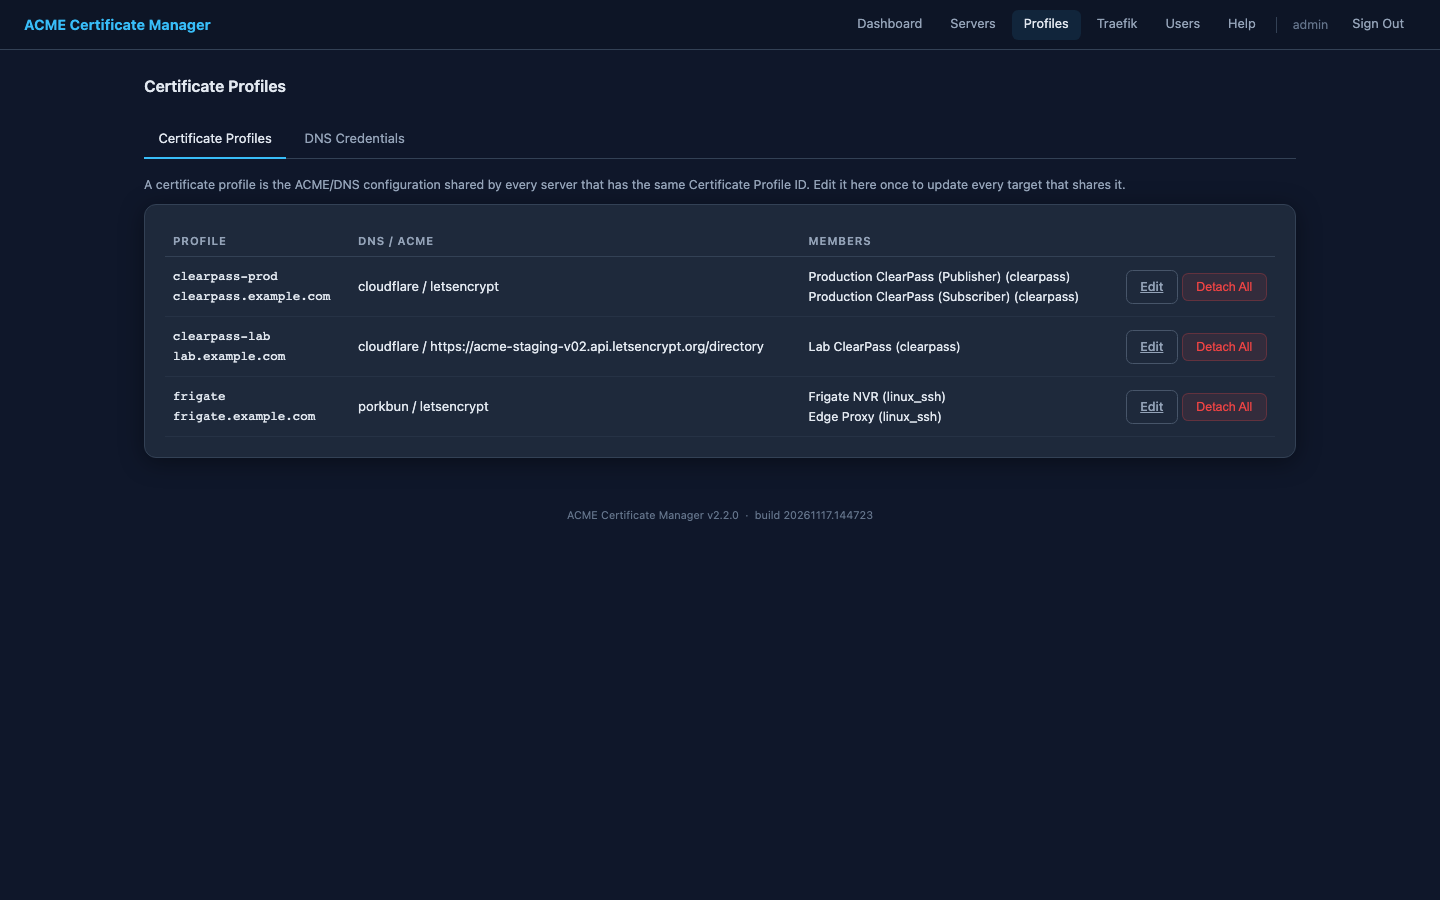
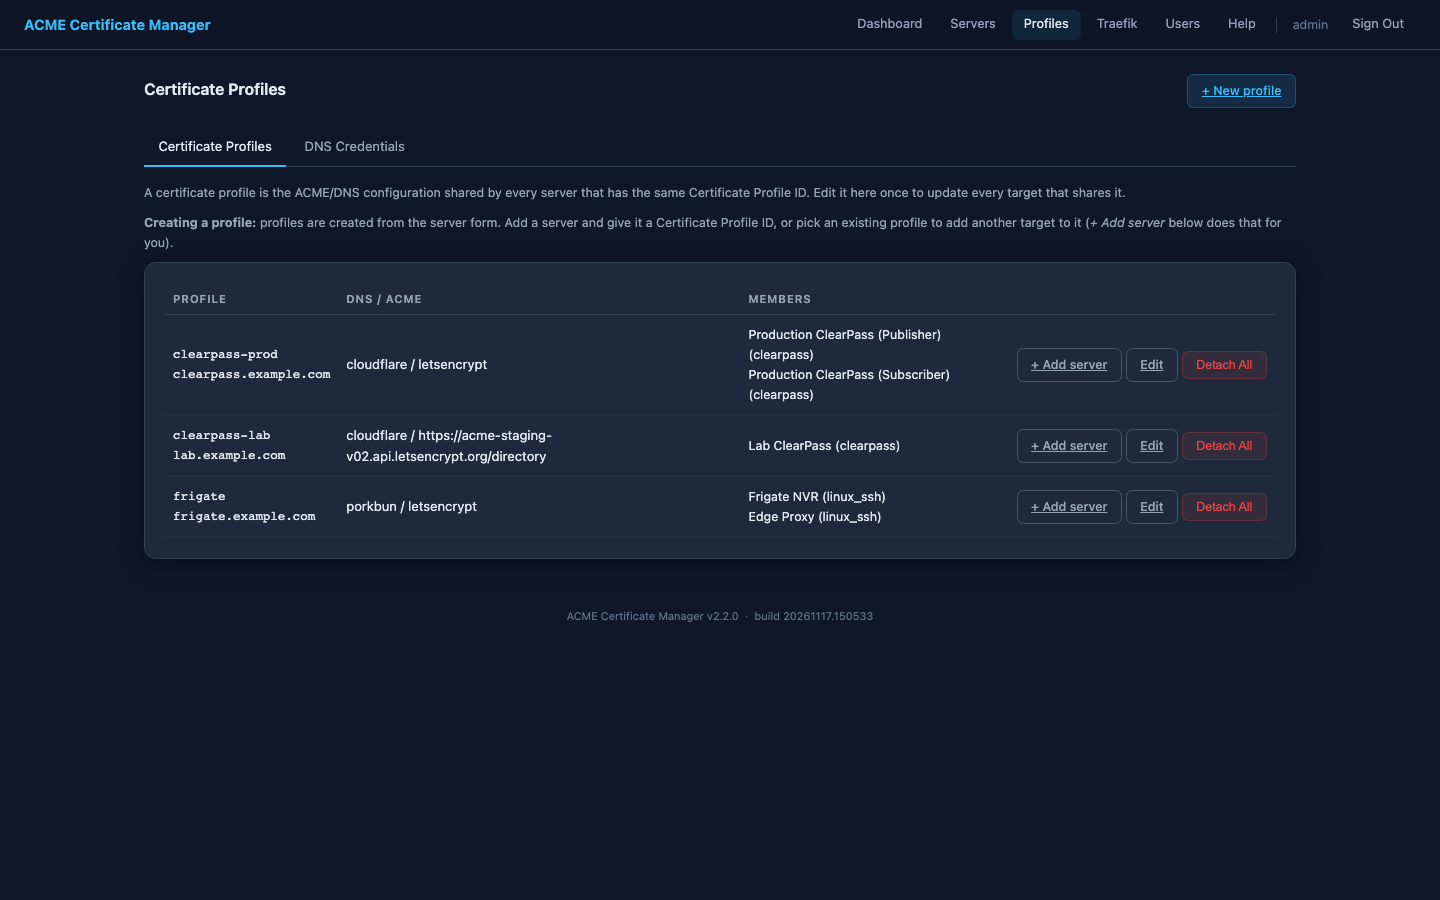
Updated screenshots and clarified the Certificate Profile tab on where profiles are created.

diff --git a/tools/screenshot_docs.py b/tools/screenshot_docs.py
@@ -4,7 +4,8 @@ screenshot_docs.py - Regenerate docs/ui-*.png screenshots from sample data.
 
 Spins up a throwaway container from the project's own Docker image, seeds it
 with placeholder servers and an admin user (never real customer/lab data),
-drives a headless browser through each documented page (empty-state checklist,
+drives a headless browser through each documented page (setup, login, dashboard,
+server detail and log tabs, users, empty-state checklist,
 ClearPass and Linux SSH servers, Certificate Profiles, DNS Credentials), and
 saves the resulting PNGs into docs/.
 
@@ -119,6 +120,18 @@ SAMPLE_SERVERS = [
     }),
 ]
 
+# Captured before the first admin exists / without a session.
+# (output filename, path)
+PRE_AUTH_PAGES = [
+    ("ui-setup.png", "/setup?step=admin"),
+]
+
+# Captured in a fresh, signed-out browser context after seeding.
+SIGNED_OUT_PAGES = [
+    ("ui-login.png", "/login"),
+    ("ui-server-detail-noauth.png", "/server/{prod}"),
+]
+
 # Pages captured while the app has NO servers and NO DNS credentials, so the
 # empty-state "Get started" checklist shows. (output filename, path)
 EMPTY_PAGES = [
@@ -129,7 +142,11 @@ EMPTY_PAGES = [
 # template is replaced by the server ID of the SAMPLE_SERVERS entry with that
 # key, e.g. "/settings/edit/{prod}".
 PAGES = [
+    ("ui-dashboard.png", "/"),
+    ("ui-server-detail.png", "/server/{prod}"),
     ("ui-servers-list.png", "/settings"),
+    ("ui-server-form.png", "/settings/add"),
+    ("ui-users.png", "/admin/users"),
     ("ui-server-edit.png", "/settings/edit/{prod}"),
     ("ui-server-form-linux.png", "/settings/add?target_type=linux_ssh"),
     ("ui-server-edit-linux.png", "/settings/edit/{frigate}"),
@@ -137,6 +154,62 @@ PAGES = [
     ("ui-profile-edit.png", "/settings/profiles/edit/clearpass-prod"),
     ("ui-dns-credentials.png", "/settings/dns-credentials"),
 ]
+
+
+# Runs inside the container: writes self-signed placeholder certs and sample
+# logs into the cert dir of the server whose id is argv[1], so the dashboard,
+# detail view and log tabs have something to show. Placeholder data only.
+SEED_ACTIVITY_PY = r'''
+import sys, datetime
+sys.path.insert(0, "/opt/cppm")
+from config_utils import get_server, server_cert_dir
+from acme_provider import cert_file_stem
+from cryptography import x509
+from cryptography.x509.oid import NameOID
+from cryptography.hazmat.primitives import hashes, serialization
+from cryptography.hazmat.primitives.asymmetric import ec, rsa
+
+sid, days_left = sys.argv[1], int(sys.argv[2])
+srv = get_server(sid)
+d = server_cert_dir(srv); (d / "logs").mkdir(parents=True, exist_ok=True)
+domain = srv["domain"]; stem = cert_file_stem(domain)
+now = datetime.datetime.now(datetime.timezone.utc)
+issued = now - datetime.timedelta(days=90 - days_left)
+
+def make(key, name):
+    subj = x509.Name([x509.NameAttribute(NameOID.COMMON_NAME, domain)])
+    iss = x509.Name([x509.NameAttribute(NameOID.COMMON_NAME, "Example Staging Intermediate E1")])
+    c = (x509.CertificateBuilder().subject_name(subj).issuer_name(iss)
+         .public_key(key.public_key()).serial_number(x509.random_serial_number())
+         .not_valid_before(issued).not_valid_after(issued + datetime.timedelta(days=90))
+         .add_extension(x509.SubjectAlternativeName([x509.DNSName(domain)]), False)
+         .sign(key, hashes.SHA256()))
+    (d / name).write_bytes(c.public_bytes(serialization.Encoding.PEM))
+
+make(ec.generate_private_key(ec.SECP256R1()), stem + ".ecc.cer")
+if srv.get("target_type", "clearpass") == "clearpass":
+    make(rsa.generate_private_key(65537, 2048), stem + ".rsa.cer")
+
+ts = lambda m: (now - datetime.timedelta(minutes=m)).strftime("%Y-%m-%d %H:%M:%S")
+rows = [(300, "INFO", "RENEW", "Scheduled renewal check started"),
+        (299, "INFO", "RENEW", "Certificate valid for %d days - no renewal needed" % days_left),
+        (298, "INFO", "DEPLOY", "Deployed certificate to %s" % (srv.get("cppm_host") or srv.get("ssh_host") or domain)),
+        (297, "INFO", "TRUST", "Trust list check complete")]
+(d / "status.log").write_text("".join(
+    "%s | %s | %s | %s\n" % (ts(m), l, c, msg) for m, l, c, msg in rows))
+(d / "logs" / "acme_renewal.log").write_text("".join(
+    "%s lego: %s\n" % (ts(m), t) for m, t in [
+     (300, "[INFO] [%s] acme: Obtaining bundled SAN certificate" % domain),
+     (300, "[INFO] [%s] acme: Trying DNS-01 challenge" % domain),
+     (299, "[INFO] [%s] dns: Waiting for DNS propagation" % domain),
+     (299, "[INFO] [%s] The server validated our request" % domain),
+     (299, "[INFO] [%s] Server responded with a certificate." % domain)]))
+(d / "logs" / "cppm_upload.log").write_text("".join(
+    "%s upload: %s\n" % (ts(m), t) for m, t in [
+     (298, "Authenticating with API client"),
+     (298, "Uploading HTTPS(ECC) certificate"),
+     (298, "Upload complete: HTTPS(ECC)")]))
+'''
 
 
 def run(cmd, **kw):
@@ -199,15 +272,25 @@ def main() -> int:
 
         wait_for_http(f"http://localhost:{HOST_PORT}/", timeout=30)
 
-        run(seed_py(
-            f"from auth_utils import save_user; "
-            f"save_user({ADMIN_USER!r}, {ADMIN_PASS!r})"
-        ))
-
         from playwright.sync_api import sync_playwright
 
         with sync_playwright() as pw:
             browser = pw.chromium.launch()
+
+            # 0) First-run setup page, before any admin exists.
+            setup_page = browser.new_page(viewport=VIEWPORT)
+            for filename, path in PRE_AUTH_PAGES:
+                setup_page.goto(f"http://localhost:{HOST_PORT}{path}")
+                setup_page.wait_for_load_state("networkidle")
+                out = DOCS_DIR / filename
+                setup_page.screenshot(path=str(out), full_page=True)
+                print(f"saved {out}")
+            setup_page.close()
+
+            run(seed_py(
+                f"from auth_utils import save_user; "
+                f"save_user({ADMIN_USER!r}, {ADMIN_PASS!r})"
+            ))
             page = browser.new_page(viewport=VIEWPORT)
             page.goto(f"http://localhost:{HOST_PORT}/login")
             page.fill('input[name="username"]', ADMIN_USER)
@@ -240,9 +323,43 @@ def main() -> int:
                 ), capture_output=True, text=True)
                 server_ids[key] = result.stdout.strip().splitlines()[-1]
 
+            # Trigger the first health check now: the sandbox can't reach the
+            # sample hosts, and the resulting "cannot resolve" events get logged
+            # to status.log. The seed below overwrites that log, so the Activity
+            # Log shows only the sample events. (State changes are logged once,
+            # so they don't reappear.)
+            page.goto(f"http://localhost:{HOST_PORT}/api/health")
+            page.wait_for_timeout(2000)
+
+            # Placeholder certs/logs for the monitored entries. prod_sub shares
+            # prod's certificate directory, so it is seeded once via prod.
+            for key, days in (("prod", 62), ("lab", 21), ("frigate", 45)):
+                run(["docker", "exec", CONTAINER, "python3", "-c", SEED_ACTIVITY_PY,
+                     server_ids[key], str(days)])
+
             # 3) Populated pages.
             for filename, path_tpl in PAGES:
                 shoot(filename, path_tpl.format(**server_ids))
+
+            # 4) Log tabs on the server detail page.
+            for filename, tab_text in (("ui-server-logs-renewal.png", "ACME Renewal"),
+                                       ("ui-server-logs-upload.png", "ClearPass Upload")):
+                page.goto(f"http://localhost:{HOST_PORT}/server/{server_ids['prod']}")
+                page.wait_for_load_state("networkidle")
+                page.get_by_text(tab_text, exact=False).first.click()
+                page.wait_for_timeout(1000)
+                out = DOCS_DIR / filename
+                page.screenshot(path=str(out), full_page=True)
+                print(f"saved {out}")
+
+            # 5) Signed-out pages (fresh context, no session cookie).
+            anon = browser.new_page(viewport=VIEWPORT)
+            for filename, path_tpl in SIGNED_OUT_PAGES:
+                anon.goto(f"http://localhost:{HOST_PORT}{path_tpl.format(**server_ids)}")
+                anon.wait_for_load_state("networkidle")
+                out = DOCS_DIR / filename
+                anon.screenshot(path=str(out), full_page=True)
+                print(f"saved {out}")
 
             browser.close()
 

diff --git a/scripts/status_server.py b/scripts/status_server.py
@@ -30,7 +30,7 @@ import traceback
 import zoneinfo
 from http.server import BaseHTTPRequestHandler, ThreadingHTTPServer
 from pathlib import Path
-from urllib.parse import parse_qs, urlparse
+from urllib.parse import parse_qs, urlparse, quote as _url_quote
 
 try:
     from cryptography import x509
@@ -3645,9 +3645,9 @@ def _profile_list_page(username: str, flash_type: str = "", flash_msg: str = "")
     profiles = list_certificate_profiles()
     if not profiles:
         rows = ('<tr><td colspan="4"><div class="empty">'
-                'No certificate profiles yet.&nbsp; Set a Certificate Profile ID on two or '
-                'more servers in <a href="/settings" style="color:var(--accent)">Servers</a> '
-                'to share one ACME/DNS config between them.'
+                'No certificate profiles yet.&nbsp; '
+                '<a href="/settings/add?new_profile=1" style="color:var(--accent)">Add a server</a> '
+                'and give it a Certificate Profile ID to create one.'
                 '</div></td></tr>')
     else:
         rows = ""
@@ -3659,17 +3659,19 @@ def _profile_list_page(username: str, flash_type: str = "", flash_msg: str = "")
             prov    = _esc((get_dns_credential(cred_id) or {}).get("dns_provider", "") or cred_id)
             acme    = _esc(p.get("acme_server", "letsencrypt"))
             members = list_profile_members(pid)
+            domain_html = (f'<br><span class="hint">{domain}</span>'
+                           if domain and domain != pid_esc else "")
             members_html = "<br>".join(
                 f'{_esc(m.get("label", ""))} <span class="hint">({_esc(m.get("target_type", "clearpass"))})</span>'
                 for m in members
             )
             rows += (
                 f'<tr>'
-                f'<td style="font-family:monospace;font-size:0.78rem">{pid_esc}<br>'
-                f'<span class="hint">{domain}</span></td>'
+                f'<td style="font-family:monospace;font-size:0.78rem">{pid_esc}{domain_html}</td>'
                 f'<td>{prov} <span class="hint">/ {acme}</span></td>'
                 f'<td style="font-size:0.78rem">{members_html}</td>'
                 f'<td style="text-align:right;white-space:nowrap">'
+                f'<a href="/settings/add?profile={_url_quote(pid)}" class="btn btn-ghost">+ Add server</a> '
                 f'<a href="/settings/profiles/edit/{pid_esc}" class="btn btn-ghost">Edit</a> '
                 f'<form method="POST" action="/settings/profiles/{pid_esc}/detach" style="display:inline"'
                 f' onsubmit="return confirm(\'Detach all {len(members)} target(s) from this profile? '
@@ -3684,12 +3686,18 @@ def _profile_list_page(username: str, flash_type: str = "", flash_msg: str = "")
 <div class="app">
   <div class="page-hdr">
     <span class="page-title">Certificate Profiles</span>
+    <a href="/settings/add?new_profile=1" class="btn btn-primary">&#43; New profile</a>
   </div>
   {_profile_tabs_html("cert-profiles")}
   {flash_html}
   <p style="font-size:0.78rem;color:var(--muted);margin-bottom:0.6rem">
     A certificate profile is the ACME/DNS configuration shared by every server that has the
     same Certificate Profile ID. Edit it here once to update every target that shares it.
+  </p>
+  <p style="font-size:0.78rem;color:var(--muted);margin-bottom:0.6rem">
+    <strong>Creating a profile:</strong> profiles are created from the server form. Add a server
+    and give it a Certificate Profile ID, or pick an existing profile to add another target to it
+    (<em>+ Add server</em> below does that for you).
   </p>
   <div class="card" style="overflow-x:auto">
     <table class="settings-table" style="min-width:48rem">
@@ -3997,6 +4005,21 @@ def _settings_form_page(server: dict = None, error: str = "",
         f'<script>window.CERT_PROFILES = {profiles_json};'
         f'window.CERT_ID_AUTOSUGGEST = {"false" if is_edit else "true"};</script>'
     )
+    if not is_edit:
+        # ?profile=<id> preselects an existing profile; ?new_profile=1 focuses the ID field.
+        cert_profiles_script += '''<script>
+window.addEventListener('DOMContentLoaded', function() {
+  var q = new URLSearchParams(location.search);
+  var sel = document.getElementById('cert_profile_select');
+  var want = q.get('profile');
+  if (want && sel && (window.CERT_PROFILES || {})[want]) {
+    sel.value = want; applyCertProfile(want);
+  } else if (q.get('new_profile')) {
+    var i = document.getElementById('certificate_id_input');
+    if (i) { i.focus(); }
+  }
+});
+</script>'''
 
     if is_edit:
         cert_profile_field_html = f'''

diff --git a/docs/11-certificate-profiles.md b/docs/11-certificate-profiles.md
@@ -38,8 +38,16 @@ reload command, service labels — stays on each server entry.
 
 ### Creating a profile
 
-There is no separate "new profile" button. A profile exists as soon as a server
-has a **Certificate Profile ID**:
+Profiles are created from the server form: a profile exists as soon as a
+server has a **Certificate Profile ID**. The Profiles page has shortcuts into
+that form:
+
+- **+ New profile** (top right) opens **Add Server** with the Certificate
+  Profile ID field focused.
+- **+ Add server** on a profile row opens **Add Server** with that profile
+  already selected and its shared ACME/DNS fields filled in.
+
+Or do it by hand:
 
 1. **Servers → + Add Server**.
 2. In **Certificate Profile**, either keep **+ Create new certificate profile**
